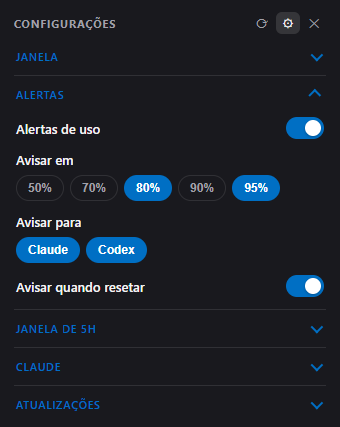
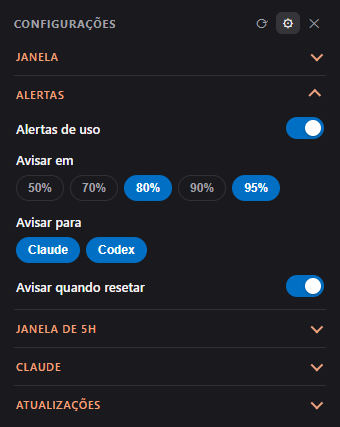
Títulos das seções de configurações com mais contraste
- laranja claro no tema escuro (7,9:1 contra 2,9:1 do azul de destaque do Windows)
- laranja escuro no tema claro (5,5:1)
- imagem das configurações no README atualizada

diff --git a/index.html b/index.html
@@ -8,12 +8,13 @@
     --line: rgba(255,255,255,.10); --tick: #fff;
     --ok: #4ade80; --warn: #facc15; --bad: #f87171; --claude: #e8845f; --codex: #19c39a;
     --accent: #d97757;
+    --head: #f0a27e; /* títulos das seções: laranja claro, com bom contraste no fundo escuro */
   }
   @media (prefers-color-scheme: light) {
     :root {
       --bg: rgba(255,255,255,.55); --fg: #18181b; --mut: #52525b; --track: rgba(0,0,0,.10);
       --line: rgba(0,0,0,.10); --tick: #18181b;
-      --ok: #16a34a; --warn: #ca8a04; --bad: #dc2626; --claude: #c2542d; --codex: #0d8a6b;
+      --ok: #16a34a; --warn: #ca8a04; --bad: #dc2626; --claude: #c2542d; --codex: #0d8a6b; --head: #a8431c;
     }
   }
   * { box-sizing: border-box; margin: 0; }
@@ -61,7 +62,7 @@
   .ps + .ps { margin-top: 8px; padding-top: 8px; border-top: 1px solid var(--line); }
   /* seções recolhíveis: título + seta; todas começam recolhidas para a tela não ficar longa */
   details.ps > summary { list-style: none; cursor: pointer; display: flex; align-items: center; justify-content: space-between;
-    padding: 3px 2px; border-radius: 6px; font-size: 11px; font-weight: 600; letter-spacing: .06em; color: var(--accent); text-transform: uppercase; }
+    padding: 3px 2px; border-radius: 6px; font-size: 11px; font-weight: 600; letter-spacing: .06em; color: var(--head); text-transform: uppercase; }
   details.ps > summary::-webkit-details-marker { display: none; }
   details.ps > summary::after { content: ''; width: 7px; height: 7px; margin-right: 4px; flex: none;
     border-right: 2px solid currentColor; border-bottom: 2px solid currentColor; transform: rotate(45deg) translateY(-2px);

diff --git a/CHANGELOG.md b/CHANGELOG.md
@@ -7,6 +7,7 @@ O fluxo de publicação usa a seção da versão deste arquivo como texto da Rel
 
 ### Melhorias
 - **Configurações em seções recolhíveis**: cada seção (Janela, Alertas, Janela de 5h, Claude e Atualizações) tem uma seta para expandir e recolher, e **todas começam recolhidas**. A tela passa de cerca de 870 px para 230 px, e o que você abre rola quando a tela é baixa.
+- Títulos das seções em laranja claro (e laranja escuro no tema claro), com contraste bem maior que o azul de destaque do Windows.
 
 ## 1.4.0 — 2026-10-20
 
